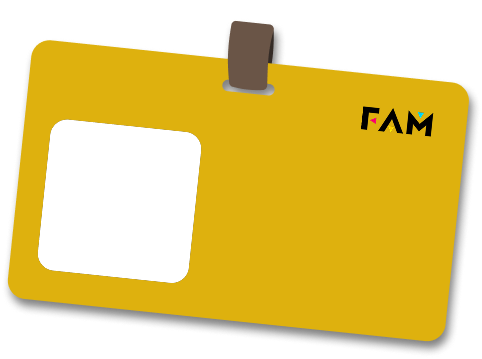
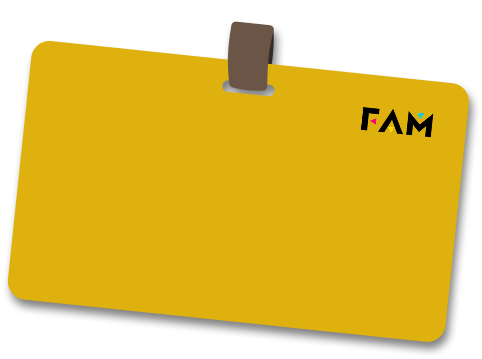
Add randomized badge color/animal combos for demo

diff --git a/public/js/script.js b/public/js/script.js
@@ -23,6 +23,10 @@ const incorrectAnswerBackings = [
 // const colorsSlider = document.getElementById("colors-slider");
 // const animalsSlider = document.getElementById("animals-slider");
 
+const badgeBase = document.getElementById("badge-base");
+const badgeIcon = document.getElementById("badge-icon");
+const colorAnimalText = document.getElementById("color-animal-text");
+
 const riddleScreen = document.getElementById("riddle-screen");
 const statusWheelContainer = document.getElementById("status-wheel-container");
 const riddleHeadline = document.getElementById("riddle-headline");
@@ -102,6 +106,62 @@ async function loadRiddles() {
 
 document.addEventListener("DOMContentLoaded", function () {
   loadRiddles();
+});
+
+//Temporary random badge for demo
+window.addEventListener("load", function () {
+  const badgeColorOptions = [
+    {
+      color: "Yellow",
+      image: "images/userCreation/badge_yellow.png",
+    },
+    {
+      color: "Blue",
+      image: "images/userCreation/badge_blue.png",
+    },
+    {
+      color: "Green",
+      image: "images/userCreation/badge_green.png",
+    },
+    {
+      color: "Purple",
+      image: "images/userCreation/badge_purple.png",
+    },
+    {
+      color: "Orange",
+      image: "images/userCreation/badge_orange.png",
+    },
+    {
+      color: "Pink",
+      image: "images/userCreation/badge_pink.png",
+    },
+  ];
+  const randomColorIndex = Math.floor(Math.random() * badgeColorOptions.length);
+
+  badgeBase.src = badgeColorOptions[randomColorIndex].image;
+
+  const badgeAnimalOptions = [
+    {
+      animal: "Hummingbird",
+      image: "images/userCreation/badge_hummingbird.png",
+    },
+    {
+      animal: "Porcupine",
+      image: "images/userCreation/badge_porcupine.png",
+    },
+    {
+      animal: "Armadillo",
+      image: "images/userCreation/badge_armadillo.png",
+    },
+    {
+      animal: "Fox",
+      image: "images/userCreation/badge_fox.png",
+    },
+  ];
+  const randomAnimalIndex = Math.floor(
+    Math.random() * badgeAnimalOptions.length
+  );
+  colorAnimalText.innerText = `${badgeColorOptions[randomColorIndex].color} ${badgeAnimalOptions[randomAnimalIndex].animal}`;
 });
 
 // document.addEventListener("DOMContentLoaded", function () {
